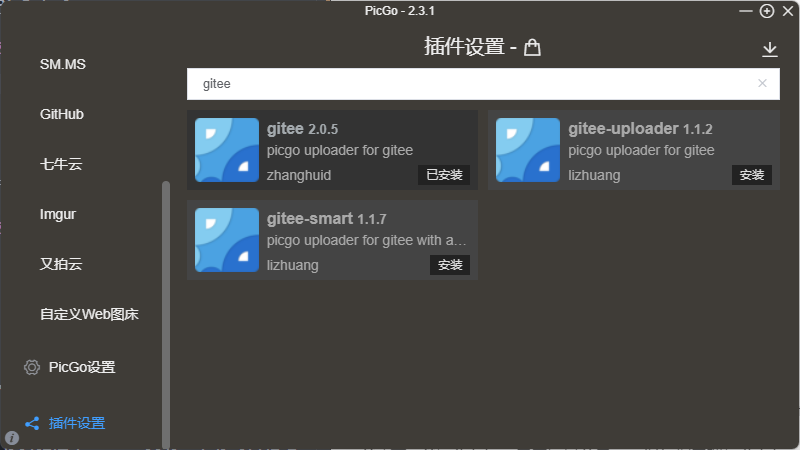
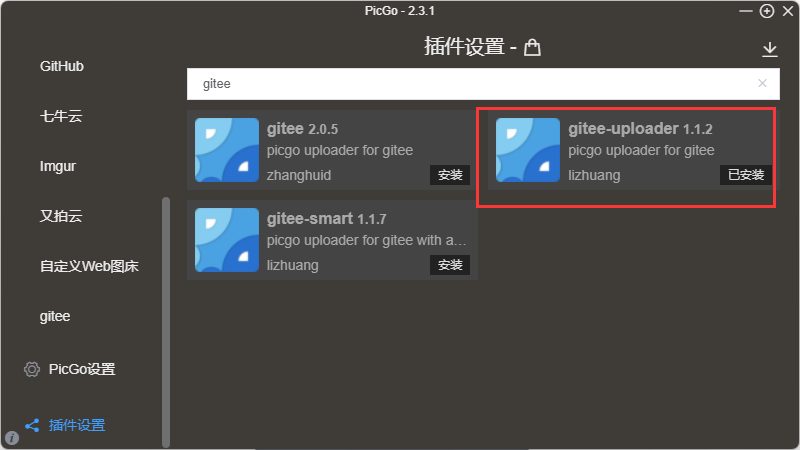
图床推荐

diff --git a/免费图床/图床.md b/免费图床/图床.md
@@ -1,16 +1,12 @@
 # 图床推荐
 
-## 一、 路过图床
+- PicGo
+- imgurl
+- 路过图床
 
-https://imgtu.com/
+## 一、 PicGo
 
-## 二、 imgurl
-
-https://www.imgurl.org/vip/manage/upload
-
-https://doc.xiaoz.org/books/imgurl-pro/page/picgo
-
-## 三、 PicGo（推荐）
+![](https://gitee.com/binbin59/imgs/raw/master/%E5%85%8D%E8%B4%B9%E5%9B%BE%E5%BA%8A/PicGo/Gitee/logo-150.png)
 
 - PicGo: 一个用于快速上传图片并获取图片 URL 链接的工具
 
@@ -20,9 +16,7 @@ https://doc.xiaoz.org/books/imgurl-pro/page/picgo
 
 ![](https://cdn.jsdelivr.net/gh/bin59/imgs@main/PicGo/QQ%E6%88%AA%E5%9B%BE20230620233229.png)
 
-**配置**
-
-### 1. GitHub 平台
+### 1. 配置 GitHub 图床
 
 - 在 GitHub 上新建一个仓库 imgs,用于存储图片
 
@@ -58,12 +52,78 @@ https://doc.xiaoz.org/books/imgurl-pro/page/picgo
 
 ![](https://cdn.jsdelivr.net/gh/bin59/imgs@main/346e2904880f11ebb6edd017c2d2eca2.jpg)
 
-### 2. Gitee 平台（推荐）
+### 2.配置 Gitee 图床
 
 - 首先搜索`Gitee`下载插件
 
-![](./images/PicGo/Gitee/gitee插件.png)
+![](https://gitee.com/binbin59/imgs/raw/master/%E5%85%8D%E8%B4%B9%E5%9B%BE%E5%BA%8A/PicGo/Gitee/gitee%E6%8F%92%E4%BB%B6.png)
 
 - 登录 gitee 平台建一个仓库`imgs`
 
 - 创建私人令牌
+
+![](https://gitee.com/binbin59/imgs/raw/master/%E5%85%8D%E8%B4%B9%E5%9B%BE%E5%BA%8A/PicGo/Gitee/%E7%A7%81%E4%BA%BA%E4%BB%A4%E7%89%8C.png)
+
+- 配置 Gitee
+
+![](https://gitee.com/binbin59/imgs/raw/master/%E5%85%8D%E8%B4%B9%E5%9B%BE%E5%BA%8A/PicGo/Gitee/%E9%85%8D%E7%BD%AE.png)
+
+字段信息
+
+```bash
+- repo 仓库路径
+- branch：分支，默认是master
+- token：填入码云的私人令牌
+- path：路径，随便写
+- customPath：提交消息(如下图)，插件默认提交的是 Upload 图片名 by picGo - 时间
+```
+
+![](https://gitee.com/binbin59/imgs/raw/master/%E5%85%8D%E8%B4%B9%E5%9B%BE%E5%BA%8A/PicGo/Gitee/%E6%8F%90%E4%BA%A4%E4%BF%A1%E6%81%AF.png)
+
+## 二、 imgurl
+
+### 使用方法一：登录网站直接使用
+
+网址：https://www.imgurl.org/vip/manage/upload
+
+![](https://gitee.com/binbin59/imgs/raw/master/%E5%85%8D%E8%B4%B9%E5%9B%BE%E5%BA%8A/ImgURL/ImgURL.png)
+
+### 使用方法二：PicGo 配置
+
+- 下载插件`web-uploader`
+
+![](https://gitee.com/binbin59/imgs/raw/master/%E5%85%8D%E8%B4%B9%E5%9B%BE%E5%BA%8A/ImgURL/web-uploader.png)
+
+- 获取 ImgURL API
+
+登录后在 ImgURL 用户后台，找到三个参数并记录
+
+![](https://gitee.com/binbin59/imgs/raw/master/%E5%85%8D%E8%B4%B9%E5%9B%BE%E5%BA%8A/ImgURL/%E5%90%8E%E5%8F%B0.png)
+
+- 设置 PicGo
+
+打开 PicGo - 图床设置 - 自定义 Web 图床，填写上一步获取到的 API 信息，如下图。
+
+![](https://gitee.com/binbin59/imgs/raw/master/%E5%85%8D%E8%B4%B9%E5%9B%BE%E5%BA%8A/ImgURL/%E9%85%8D%E7%BD%AE.png)
+
+```
+- API地址：填写ImgURL的API地址，比如：http://imgurl.rss.ink/api/v2/upload
+- POST参数名：填写file
+- JSON路径：填写data.url
+- 自定义Body：填写下面的json
+```
+
+```bash
+{"uid":"your uid","token":"your token"}
+```
+
+- your uid：改成你在 ImgURL 获取到的 UID
+- your token：改成你在 ImgURL 获取到的 Token
+
+然后点击确定进行保存即可。
+
+## 三、 路过图床
+
+网址：https://imgtu.com/
+
+![](https://gitee.com/binbin59/imgs/raw/master/%E5%85%8D%E8%B4%B9%E5%9B%BE%E5%BA%8A/%E8%B7%AF%E8%BF%87%E5%9B%BE%E5%BA%8A/logo-%E8%B7%AF%E8%BF%87%E5%9B%BE%E5%BA%8A.png)
